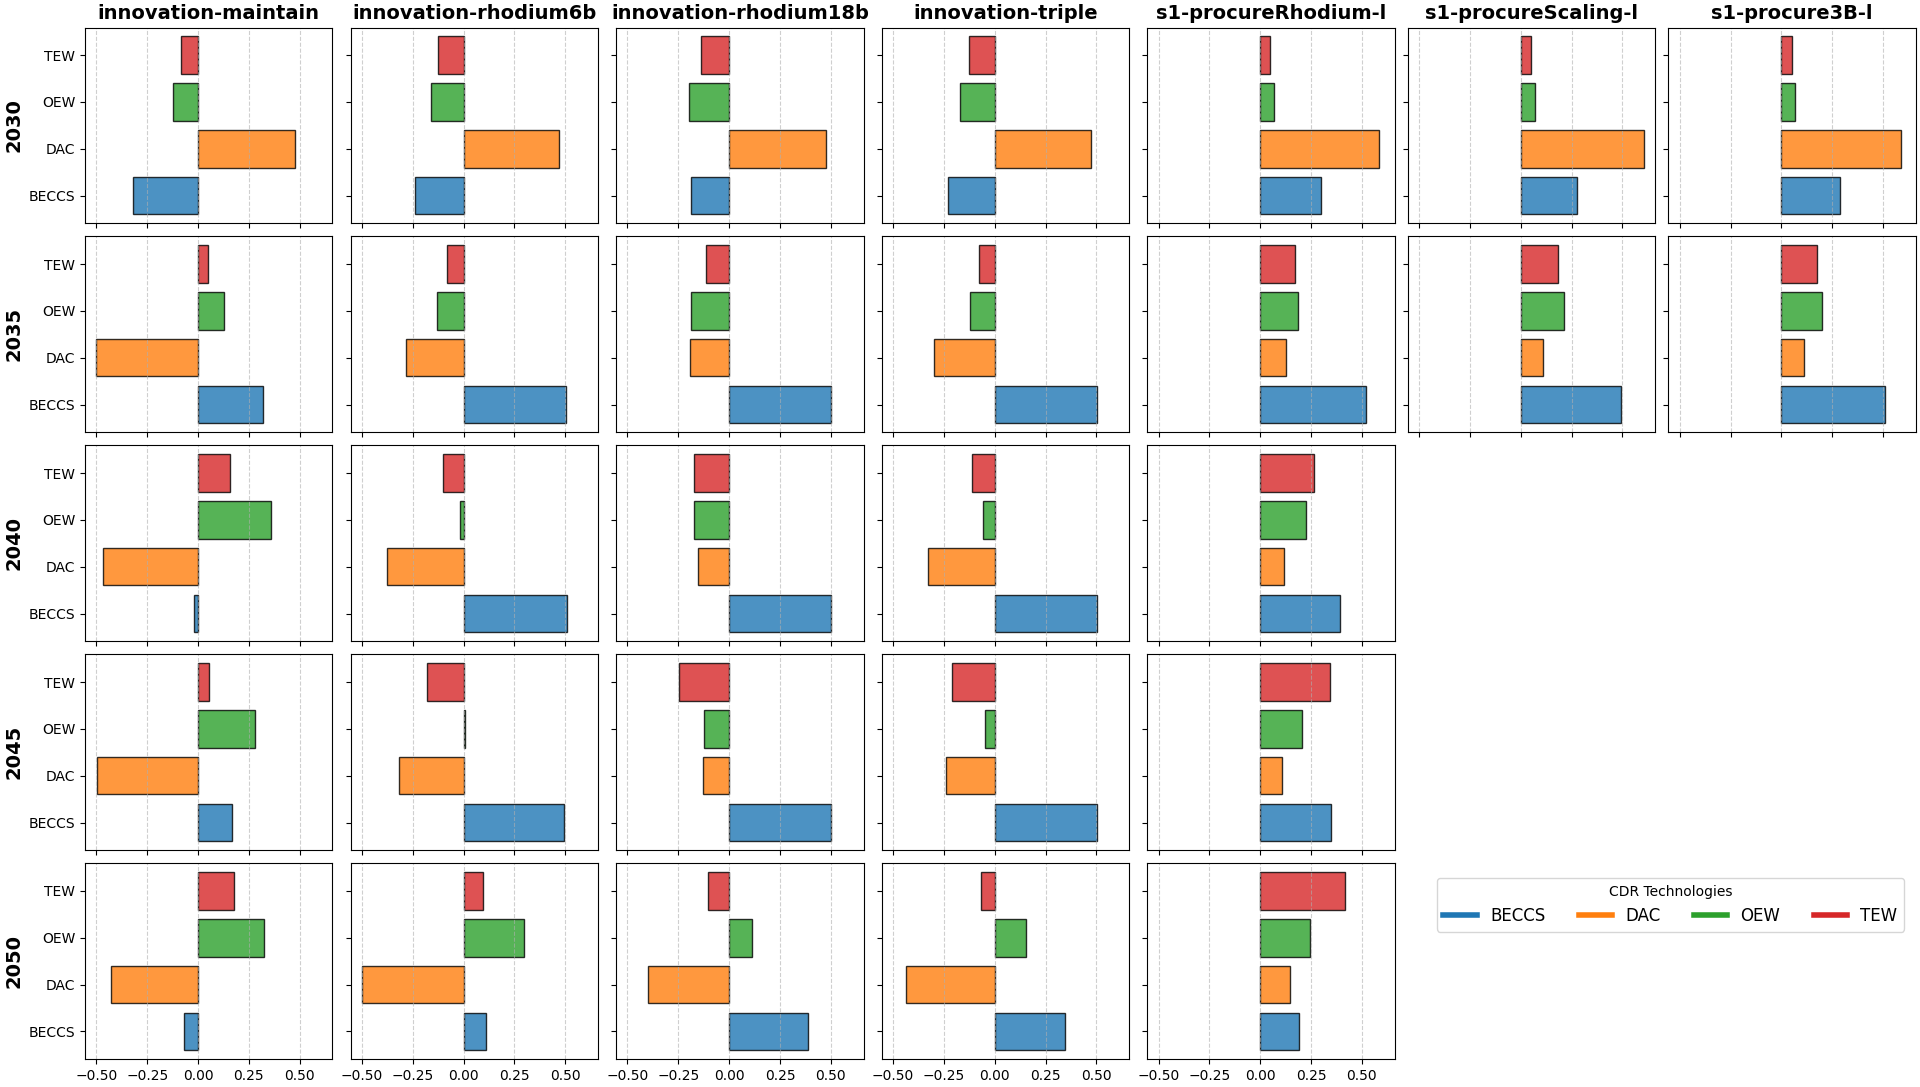
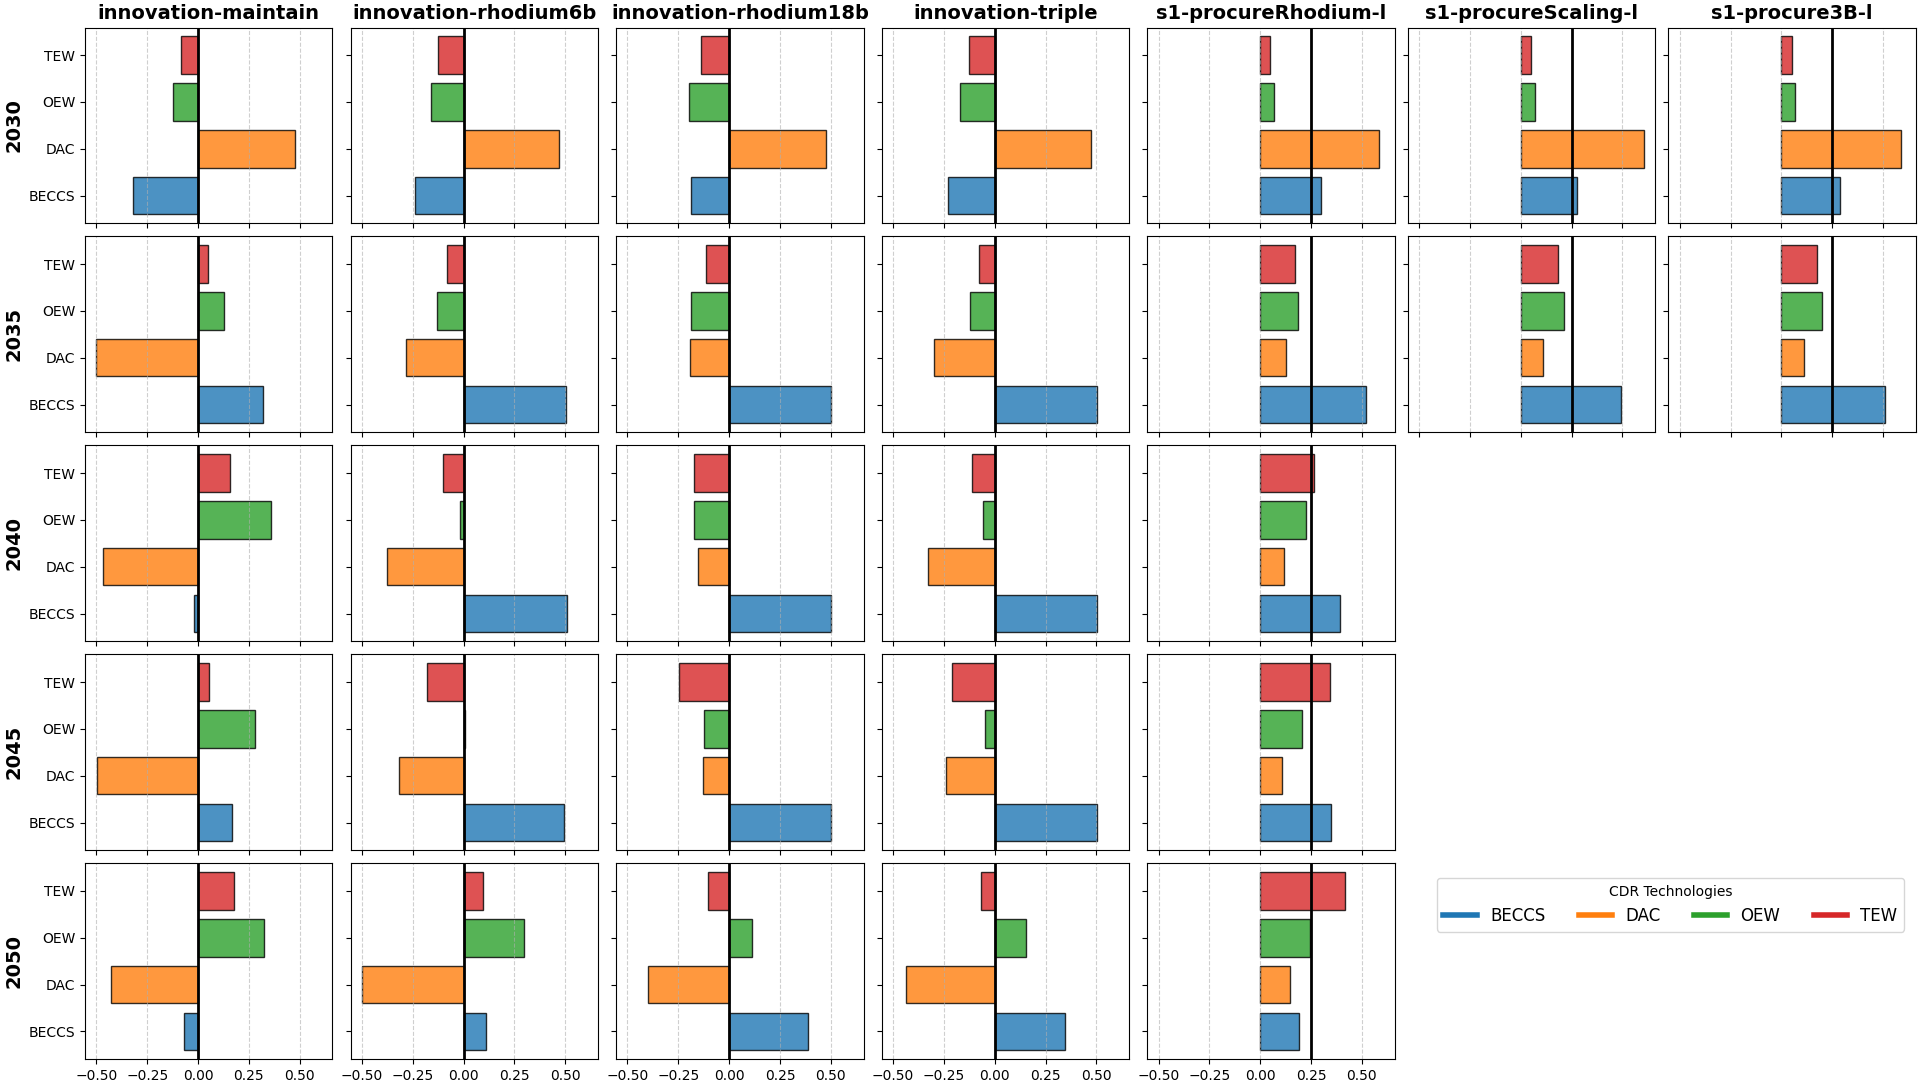
more figures for manuscript plotted

diff --git a/supplementary_figures.py b/supplementary_figures.py
@@ -15,16 +15,171 @@ def main(config_fname, reference_year):
     """
     config_fname = config_fname.replace("_", "/")
     os.makedirs("./data/data_analysis/images/" + config_fname + "/", exist_ok=True)
+    marginal_supply()
     tech_neutrality()
-    # compare_policy_costs("CDRIA-2035_high", "45Q-2040_high")
-    # CAGR(config_fname, "2050")
-    # land_allocation(config_fname, "2050")
-    # cement(config_fname, "2050")
-    # electricity(config_fname, "2050")
-    # state_CDR(config_fname, "2050")
-    # C_tax(config_fname, reference_year)
-    # C_prices(config_fname, reference_year)
-    # CDR_subsidies(config_fname, "2035", "2040")
+    compare_policy_costs("CDRIA-2035_high", "45Q-2040_high")
+    CAGR(config_fname, "2050")
+    land_allocation(config_fname, "2050")
+    cement(config_fname, "2050")
+    electricity(config_fname, "2050")
+    state_CDR(config_fname, "2050")
+    C_tax(config_fname, reference_year)
+    C_prices(config_fname, reference_year)
+    CDR_subsidies(config_fname, "2035", "2040")
+
+
+def marginal_supply():
+    scenarios = ["low_low", "high_high", "s1-procureScaling-l_low", "s1-procure3B-l_low", "s1-procureRhodium-l_low",
+     "s1-procureScaling-h_high", "s1-procure3B-h_high", "s1-procureRhodium-h_high", "nzn_nzn", "excess_excess", "4gt_4gt"]
+
+    # get CDR data
+    all_data = pd.DataFrame()
+    for nonBaselineScenario in scenarios:
+        nonBaselineScenario = str(nonBaselineScenario).replace("_", "/")
+        fpath = "./data/data_analysis/supplementary_tables/" + nonBaselineScenario + "/policy cost by technology.csv"
+        pyrolysis_df = pd.read_csv(fpath)
+        if all_data.empty:
+            all_data = pyrolysis_df
+        else:
+            all_data = pd.concat([all_data, pyrolysis_df])
+    CDR = all_data[["2025_supply", "2030_supply", "2035_supply", "2040_supply", "2045_supply", "2050_supply",
+                    "scenario", "baseline", "product", "Units"]]
+    CDR = CDR[CDR["product"].isin(["BECCS", "DAC", "OEW", "TEW"])]
+    CDR = CDR.fillna(0)
+
+    # scenario pairs
+    scenario_pairs = [('nzn', 'low'),
+                      ('low', 's1-procureScaling-l'),
+                      ('low', 's1-procure3B-l'),
+                      ('low', 's1-procureRhodium-l'),
+                      ('low', 'high'),
+                      ('high', 's1-procureScaling-h'),
+                      ('high', "s1-procure3B-h"),
+                      ('high', "s1-procureRhodium-h"),
+                      ('high', 'excess'),
+                      ('excess', '4gt')]
+    year_cols = ['2030_supply', '2035_supply', '2040_supply', '2045_supply', '2050_supply']
+    id_cols = 'product'
+
+    # a list to store results
+    delta_results = []
+
+    # get the source data (smallest scenario for each year)
+    source = CDR[CDR['scenario'] == "nzn"].copy(deep=True).set_index(id_cols)[year_cols]
+    source = source.div(source.sum())
+    source['comparison'] = "nzn"
+    delta_results.append(source.reset_index())
+
+    for s1, s2 in scenario_pairs:
+        # filter and set index to align rows for subtraction
+        df1 = CDR[CDR['scenario'] == s1].set_index(id_cols)[year_cols]
+        df2 = CDR[CDR['scenario'] == s2].set_index(id_cols)[year_cols]
+
+        # subtract (Scenario 2 - Scenario 1) because S2 is always larger, then normalize to sum to 1
+        diff = df2.sub(df1, fill_value=0)
+        diff = diff.div(diff.sum())
+
+        # label the new data with the paired name
+        diff['comparison'] = f"<{s2}, {s1}>"
+
+        # reset index to bring id_cols back as columns
+        delta_results.append(diff.reset_index())
+
+    # get the target data (largest scenario for each year)
+    source = CDR[CDR['scenario'] == "4gt"].copy(deep=True).set_index(id_cols)[year_cols]
+    source = source.div(source.sum())
+    source['comparison'] = "4gt"
+    delta_results.append(source.reset_index())
+
+    # combine into a final DataFrame
+    df_deltas = pd.concat(delta_results, ignore_index=True)
+    df_deltas["2030"] = df_deltas["2030_supply"]
+    df_deltas["2035"] = df_deltas["2035_supply"]
+    df_deltas["2040"] = df_deltas["2040_supply"]
+    df_deltas["2045"] = df_deltas["2045_supply"]
+    df_deltas["2050"] = df_deltas["2050_supply"]
+    # add a mask
+    df_deltas.loc[df_deltas['comparison'] == '<s1-procureScaling-l, low>', '2040'] = np.nan
+    df_deltas.loc[df_deltas['comparison'] == '<s1-procureScaling-h, high>', '2040'] = np.nan
+    df_deltas.loc[df_deltas['comparison'] == '<s1-procure3B-l, low>', '2040'] = np.nan
+    df_deltas.loc[df_deltas['comparison'] == '<s1-procure3B-h, high>', '2040'] = np.nan
+    df_deltas.loc[df_deltas['comparison'] == '<s1-procureScaling-l, low>', '2045'] = np.nan
+    df_deltas.loc[df_deltas['comparison'] == '<s1-procureScaling-h, high>', '2045'] = np.nan
+    df_deltas.loc[df_deltas['comparison'] == '<s1-procure3B-l, low>', '2045'] = np.nan
+    df_deltas.loc[df_deltas['comparison'] == '<s1-procure3B-h, high>', '2045'] = np.nan
+    df_deltas.loc[df_deltas['comparison'] == '<s1-procureScaling-l, low>', '2050'] = np.nan
+    df_deltas.loc[df_deltas['comparison'] == '<s1-procureScaling-h, high>', '2050'] = np.nan
+    df_deltas.loc[df_deltas['comparison'] == '<s1-procure3B-l, low>', '2050'] = np.nan
+    df_deltas.loc[df_deltas['comparison'] == '<s1-procure3B-h, high>', '2050'] = np.nan
+    df_deltas = df_deltas[["comparison", "product", "2030", "2035", "2040", "2045", "2050"]]
+
+    # set up plot
+    years = ['2030', '2035', '2040', '2045', '2050']
+    all_comparisons = list(df_deltas['comparison'].unique())
+    products = list(df_deltas['product'].unique())
+    colors = ['#1f77b4', '#ff7f0e', '#2ca02c', '#d62728']
+
+    # set up the grid (3 rows, 2 columns)
+    fig, axes = plt.subplots(2, 3, figsize=(20, 12), sharex=False, sharey=True, layout="constrained")
+    axes_flat = axes.flatten()
+
+    for i, year in enumerate(years):
+        ax = axes_flat[i]
+
+        # Filter valid comparisons for the specific year
+        valid_comps = [c for c in all_comparisons if not df_deltas[df_deltas['comparison'] == c][year].isna().all()]
+        x_pos = np.arange(len(valid_comps))
+
+        starts_pos = np.zeros(len(valid_comps))
+        starts_neg = np.zeros(len(valid_comps))
+
+        for p_idx, product in enumerate(products):
+            # Extract values
+            values = []
+            for comp in valid_comps:
+                val = df_deltas[(df_deltas['comparison'] == comp) & (df_deltas['product'] == product)][year].sum()
+                values.append(0 if np.isnan(val) else val)
+
+            values = np.array(values)
+            current_bottom = np.where(values >= 0, starts_pos, starts_neg)
+
+            # Plot bars
+            bars = ax.bar(x_pos, values, bottom=current_bottom, color=colors[p_idx],
+                          edgecolor='white', width=0.7, label=product if i == 0 else "")
+
+            # Add Value Labels
+            for j, bar in enumerate(bars):
+                val = values[j]
+                if abs(val) > 0.1:  # label segments larger than 10% for readability
+                    # Position text in the middle of the segment
+                    text_y = current_bottom[j] + (val / 2)
+                    ax.text(bar.get_x() + bar.get_width() / 2, text_y, f'{val:.2f}',
+                            ha='center', va='center', color='white', fontweight='bold', fontsize=9)
+
+            starts_pos += np.maximum(0, values)
+            starts_neg += np.minimum(0, values)
+
+        # Formatting Subplot
+        ax.set_title(f"{year}", fontsize=14, fontweight='bold')
+        ax.axhline(0, color='black', linewidth=1)
+        ax.set_xticks(x_pos)
+        ax.set_xticklabels(valid_comps, rotation=30, ha='right', fontsize=11)
+        ax.set_ylabel("Normalized Delta")
+        ax.grid(axis='y', linestyle=':', alpha=0.6)
+
+    # add legend to 6th axis
+    legend_ax = axes_flat[5]
+    legend_ax.axis('off')  # Hide the plot lines/grid
+
+    # Create custom legend handles
+    from matplotlib.patches import Patch
+    legend_elements = [Patch(facecolor=colors[i], label=products[i]) for i in range(len(products))]
+
+    legend_ax.legend(handles=legend_elements, title="CDR Technologies",
+                     loc='center', fontsize=14, title_fontsize=16, frameon=False)
+
+    plt.savefig("data/data_analysis/images/Marginal_Supply_Grid.png", dpi=300, bbox_inches='tight')
+    plt.show()
 
 
 def tech_neutrality():
@@ -106,6 +261,9 @@ def tech_neutrality():
                     # if there is data, extract it for plotting
                     product_totals = scenario_df.groupby('product')[str(year)].sum().reindex(products).fillna(0)
                     bars = ax.barh(products, product_totals, color=colors, edgecolor='black', alpha=0.8)
+
+                    v_line_pos = 0 if "innovation" in scenario_name else 0.25
+                    ax.axvline(x=v_line_pos, color='black', linestyle='-', linewidth=2, label='Tech-Neutral Target')
 
                     # label only certain subplots
                     if row_idx == 0:
